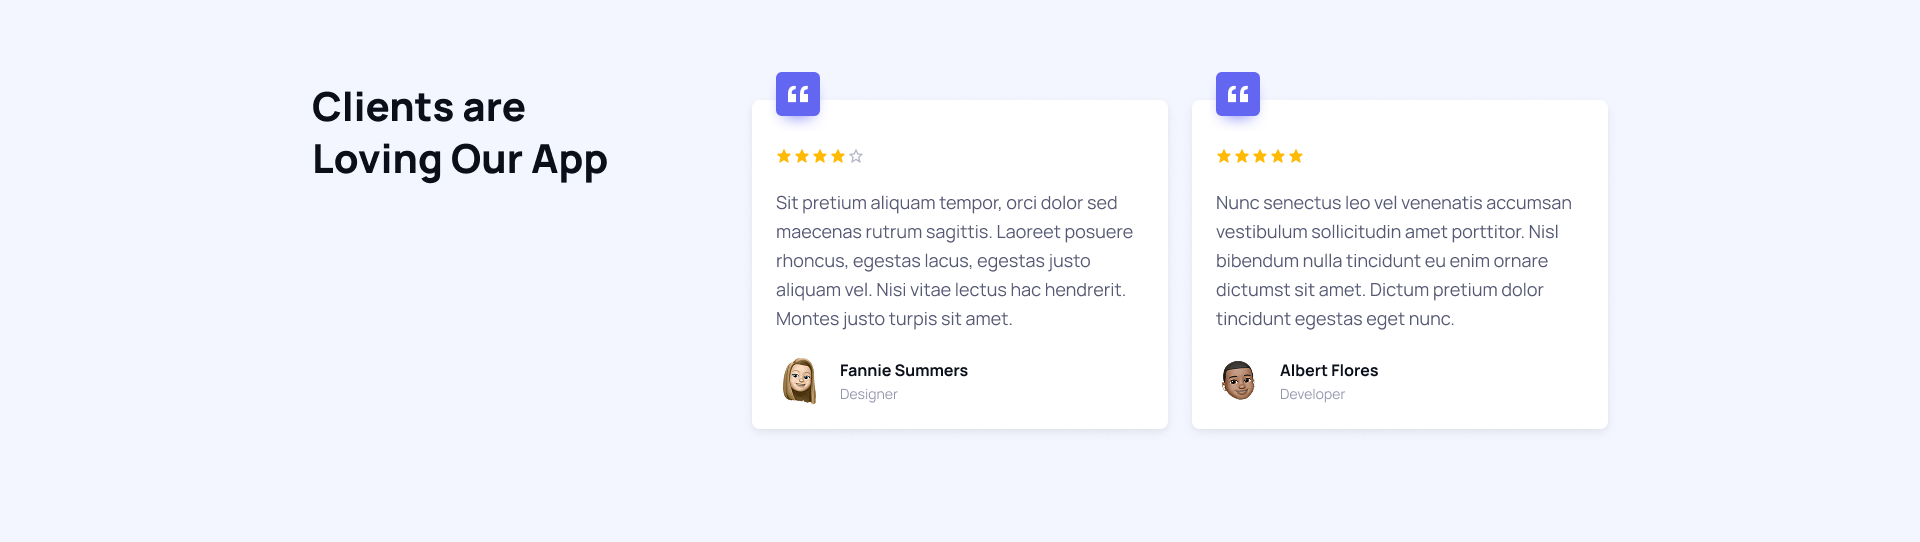
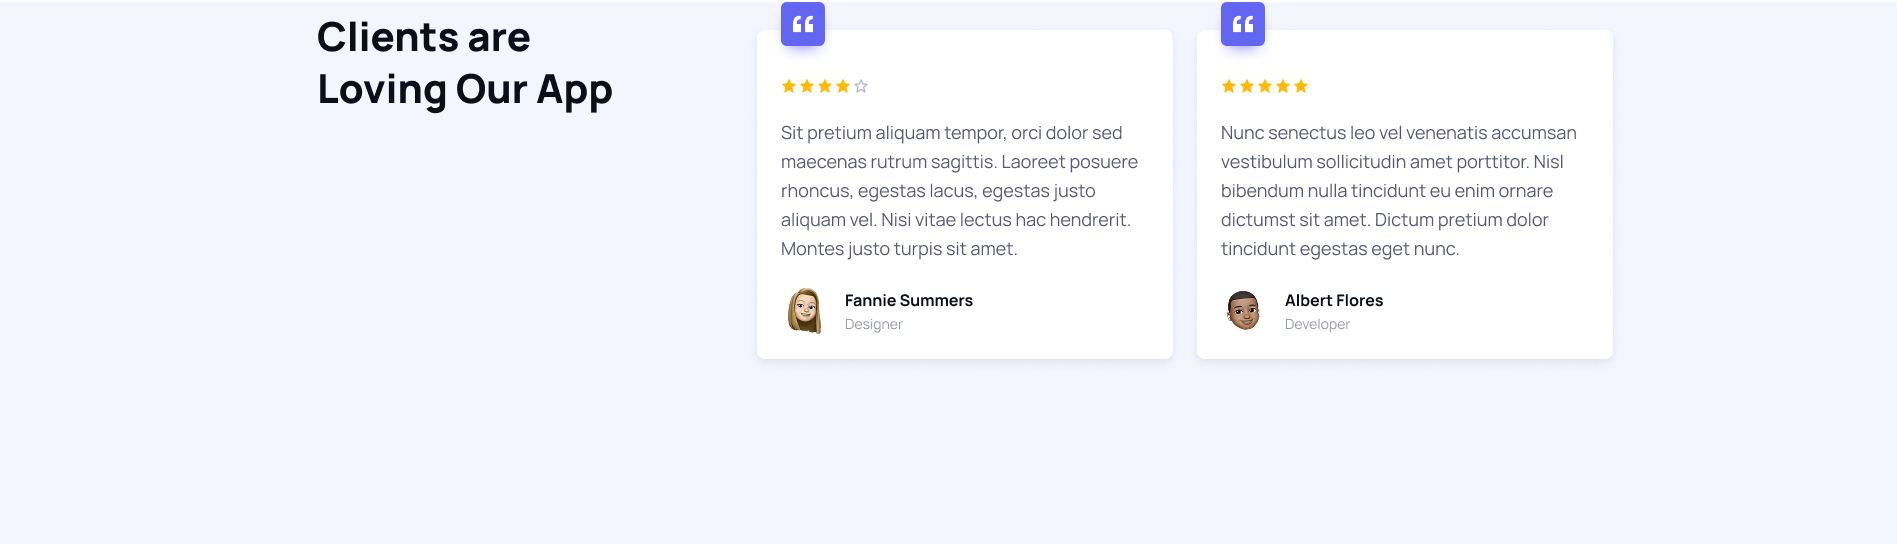
changed pictures due to me going a bit too far with creativity

diff --git a/index.html/index.html b/index.html/index.html
@@ -123,13 +123,8 @@
       <h2 class="section-title">What our users say</h2>
       <div class="testimonial-grid">
         <blockquote class="card">
-          <img src="images/testimonial-alberrt.png" alt="Albert">
-        </blockquote>
-        <blockquote class="card">
-          <img src="images/testimonial-fannie.png" alt="Fannie">
-        </blockquote>
-      </div>
-    </div>
+          <img src="images/Testimonials.png" alt="Albert">
+  
   </section>
 
   <!-- MARK: FAQ -->
